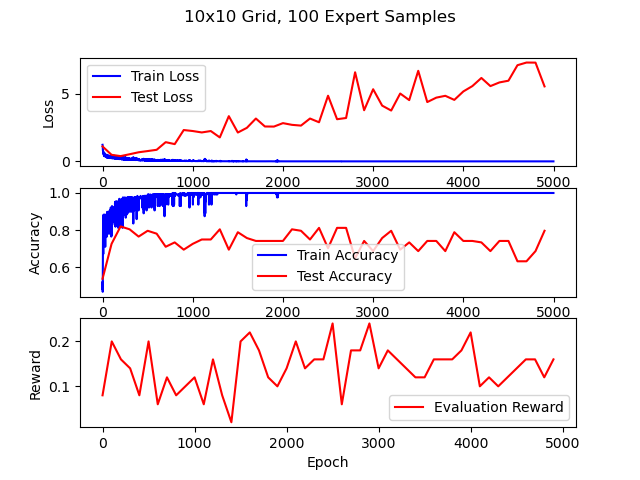
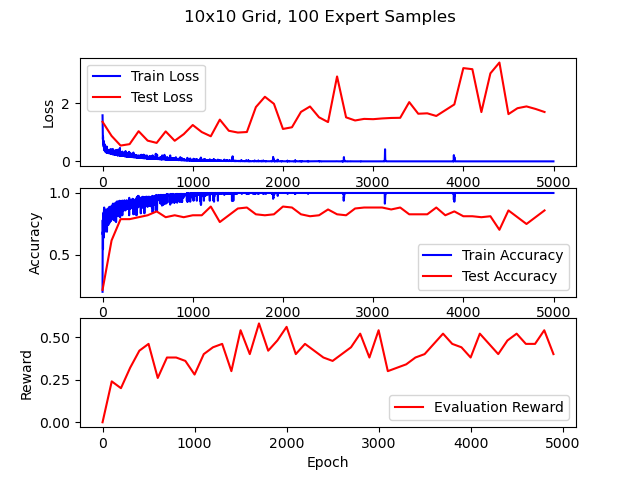
added evaluations

diff --git a/evaluation.py b/evaluation.py
@@ -1,0 +1,162 @@
+import numpy as np
+import torch
+import sys
+# Print the current working directory
+print("Current path:")
+print(sys.path[0])
+
+from mazes import *
+import argparse
+import os
+import yaml
+from goal_setters import random_goal
+from maze_env import MutableMaze
+from helpers import Net
+
+
+
+
+
+def generate_evaluation_set(config, seed=282):
+	# Set the seed
+	np.random.seed(seed)
+
+	if config["base"]["maze"] is not None:
+		maze_name = config["base"]["maze"]
+		if maze_name == "big":
+			maze = big_maze
+		elif maze_name == "huge":
+			maze = huge_maze
+		elif maze_name == "small":
+			maze = small_maze
+		else:
+			raise ValueError("Invalid maze name.")
+	else:
+		if config["base"]["size"] is not None:
+			maze_size = config["base"]["size"]
+			maze = generate_maze(maze_size, maze_size)
+		else:
+			maze = generate_maze(10, 10)
+
+	N = maze.shape[0]
+	r = config["base"]["randomize"]
+	num_eval_samples = config["eval"]["num_eval_samples"]
+
+	data = np.zeros((num_eval_samples, N, N), dtype=int)
+
+	if r == "g":
+		for i in range(num_eval_samples):
+			goal = random_goal(maze)
+			maze[maze == 3] = 0
+			maze[goal[0], goal[1]] = 3
+			data[i] = maze
+	elif r == "m":
+		for i in range(num_eval_samples):
+			data[i] = generate_maze(N)
+
+	return data
+
+
+def evaluate(config, save_string, log_file):
+	# Generate the evaluation set
+	data = generate_evaluation_set(config)
+
+	# Split along underscores
+	save_string_split = save_string.split("_")
+
+	# Find the index of "samples"
+	samples_idx = save_string_split.index("samples")
+	num_expert_samples = int(save_string_split[samples_idx + 1])
+
+	slash_split = save_string.split("/")
+	real_save_string = slash_split[-1]
+
+	model_path = f"logs/{config['base']['control']}/{real_save_string}/{real_save_string}.pt"
+
+	# Load the model
+	state_dict = torch.load(model_path)
+
+	model = Net(4)
+	model.load_state_dict(state_dict)
+
+
+	# Set the model to evaluation mode
+	model.eval()
+
+	
+	reward = 0
+
+	for i in range(data.shape[0]):
+		# Reset the environment
+		env = MutableMaze(
+        board_size=data[i][0].shape[0],
+        init_grid_string=data[i],
+        H=100,
+        render_mode='rgb_array',
+    )
+		obs = env.reset(data[i])
+
+		# Run the model
+		while True:
+			# Get the action
+			action = model(torch.Tensor(obs).unsqueeze(0)).argmax().item()
+
+			# Take the action
+			obs, r, term, trunc, info = env.step(action)
+
+			# Render the environment
+			env.render()
+
+			# Update the reward
+			reward += r
+
+			if term or trunc:
+				break
+	
+	# Compute the average reward
+	reward /= data.shape[0]
+
+	# Append the (num_expert_samples, reward) pair to the log file csv
+	with open(log_file, "a") as f:
+		print(f"Writing {num_expert_samples}, {reward} to {log_file}")
+		f.write(f"{num_expert_samples}, {reward}\n")
+	
+
+if __name__ == "__main__":
+	parser = argparse.ArgumentParser(description="Evaluate a set of arguments")
+	parser.add_argument(
+        "-y",
+        "--config",
+        type=str,
+        required=True,
+        help="Configuration file to run from. Any additional arguments will overwrite config.",
+    )
+	parser.add_argument(
+    	"-s",
+        "--save_string",
+        type=str,
+        required=True,
+        help="The string corresponding to your saved model.",
+    )
+	parser.add_argument(
+		"-n",
+		"--log_name",
+		type=str,
+		default=None,
+		help="The name of the log file to save to.",
+	)
+
+	args = parser.parse_args()
+
+	if args.log_name is None:
+		args.log_name = f"{args.save_string}_saved_eval.csv"
+	
+	# Check if the log file already exists
+	if not os.path.exists(args.log_name):
+		# If it doesn't, create it and write the header
+		with open(args.log_name, "w") as f:
+			f.write("num_expert_samples, reward\n")
+
+	config = yaml.load(open(args.config, "r"), Loader=yaml.FullLoader)
+	
+	evaluate(config, args.save_string, args.log_name)

diff --git a/visualize_results.py b/visualize_results.py
@@ -1,0 +1,51 @@
+import matplotlib.pyplot as plt
+# Read csv
+import numpy as np
+import argparse
+
+parser = argparse.ArgumentParser()
+
+parser = argparse.ArgumentParser(description="Visualize an experiment's results")
+
+parser.add_argument(
+      "-y",
+      "--config",
+      type=str,
+      required=True,
+      help="Configuration file to run from. Any additional arguments will overwrite config.",
+  )
+
+parser.add_argument(
+  "-n",
+  "--log_name",
+  type=str,
+  default=None,
+  help="The name of the log file to save to.",
+)
+
+args = parser.parse_args()
+
+# Read the csv as a numpy array
+df = np.genfromtxt(args.log_name, delimiter=",")
+df = df[1:, :]
+df = df[~np.isnan(df).any(axis=1)]
+x = df[:, 0].astype(int)
+y = df[:, 1]
+print(x)
+print(y)
+
+# Sort by x
+x, y = zip(*sorted(zip(x, y)))
+
+
+log_dir = args.log_name.split("/")[0:-1]
+log_dir = "/".join(log_dir)
+
+# Plot the results
+plt.plot(x, y)
+
+plt.title("IL/IRL Reward vs. Number of Expert Samples")
+plt.xlabel("Number of Expert Samples")
+plt.ylabel("Reward")
+plt.savefig(f"{log_dir}/reward.png")
+plt.show()

diff --git a/helpers.py b/helpers.py
@@ -2,6 +2,9 @@ import numpy as np
 import matplotlib.pyplot as plt
 from collections import deque
 from matplotlib.colors import ListedColormap
+import torch.nn as nn
+import torch.nn.functional as F
+import torch
 
 #################################################################################
 ###  This file contains a number of helper functions, including:              ###
@@ -40,6 +43,20 @@ tuple_to_key = {
     (0, -1): "left",
     (0, 1): "right",
 }
+
+# Define the network
+class Net(nn.Module):
+    def __init__(self, state_size):
+        super().__init__()
+        self.fc1 = nn.Linear(state_size, 64)
+        self.fc2 = nn.Linear(64, 64)
+        self.fc3 = nn.Linear(64, 4)
+
+    def forward(self, x):
+        x = F.relu(self.fc1(x))
+        x = F.relu(self.fc2(x))
+        x = self.fc3(x)
+        return x
 
 
 # Returns the transition matrix for a given maze

diff --git a/algos/bc.py b/algos/bc.py
@@ -10,6 +10,7 @@ from goal_setters import random_goal
 from mazes import *
 import os
 import yaml
+from helpers import Net
 
 
 def BehaviorCloning(
@@ -28,21 +29,7 @@ def BehaviorCloning(
 
     state_size = train_dataset[0][0].shape[0]
 
-    # Define the network
-    class Net(nn.Module):
-        def __init__(self):
-            super().__init__()
-            self.fc1 = nn.Linear(state_size, 64)
-            self.fc2 = nn.Linear(64, 64)
-            self.fc3 = nn.Linear(64, 4)
-
-        def forward(self, x):
-            x = F.relu(self.fc1(x))
-            x = F.relu(self.fc2(x))
-            x = self.fc3(x)
-            return x
-
-    net = Net()
+    net = Net(state_size)
 
     # Turn the train dataset from an Nx|S|x4 array into a torch dataset
     train_dataset = torch.utils.data.TensorDataset(

diff --git a/goal_setters.py b/goal_setters.py
@@ -4,7 +4,10 @@ import numpy as np
 # Randomly select an open location
 def random_goal(env):
     # Grid_string is a 2D array of integers
-    grid_string = env.grid_string
+    if type(env) == np.ndarray:
+        grid_string = env
+    else:
+        grid_string = env.grid_string
     # find all the 0s in the grid_string
     zero_positions = np.argwhere(grid_string == 0)
 
